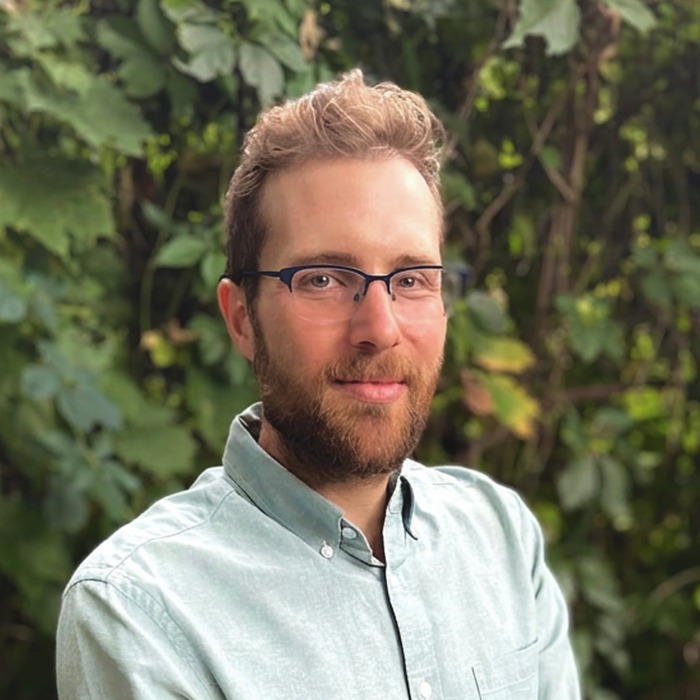
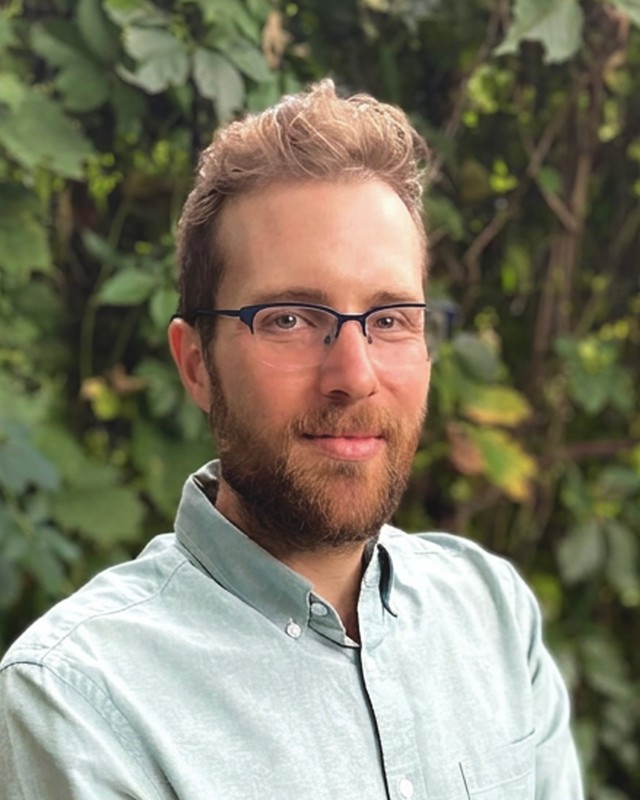
Bigger portrait photo, aligned masthead, drop sidebar links
Replace the Susy float grid with a flex two-column layout so the masthead and
body share identical columns: the site name sits over the photo, the nav links
over the body text, at any width. Photo becomes a 300x375 portrait (4:5 source)
instead of a 175px circle, and the sidebar link list is removed.

diff --git a/_includes/head/custom.html b/_includes/head/custom.html
@@ -175,26 +175,70 @@ a:hover {
 .author__urls a:hover {
   color: #1a4a7a;
 }
-/* Author links: hide entirely on narrow screens (no "Follow" toggle, no
-   dropdown). They reappear at 925px, where the sidebar becomes a real column
-   and the theme lays them out inline. */
+/* Sidebar links removed entirely (name + title only). */
+.author__urls-wrapper,
 .author__urls-wrapper button { display: none !important; }
-.author__urls-wrapper { display: none !important; }
+
+/* Large portrait photo. Source is 4:5 so object-fit has nothing to crop. */
+.author__avatar { width: 100% !important; display: block !important; }
+.author__avatar img {
+  width: 100% !important;
+  max-width: 300px !important;
+  height: auto !important;
+  aspect-ratio: 4 / 5;
+  object-fit: cover;
+  border-radius: 3px !important;
+}
+
+/* Two-column layout. Replaces the theme's Susy float grid with flex so the
+   masthead and the body share identical columns at any width: the name sits
+   over the photo, the nav links over the text. */
 @media screen and (min-width: 925px) {
-  .author__urls-wrapper { display: block !important; }
-  .author__urls {
-    display: block !important;
-    position: relative !important;
-    right: auto !important;
+  #main { display: flex !important; gap: 44px; }
+  .sidebar {
+    width: 300px !important;
+    flex: 0 0 300px !important;
+    max-width: none !important;
+    float: none !important;
     margin: 0 !important;
     padding: 0 !important;
-    border: 0 !important;
-    background: transparent !important;
-    box-shadow: none !important;
-    z-index: auto !important;
+    position: sticky !important;
+    top: 88px;
+    height: auto !important;
+    overflow: visible !important;
+    opacity: 1 !important;
   }
-  .author__urls:before,
-  .author__urls:after { display: none !important; }
+  #main > .page,
+  #main > .archive,
+  #main > article.page {
+    flex: 1 1 auto !important;
+    width: auto !important;
+    min-width: 0 !important;
+    float: none !important;
+    margin: 0 !important;
+    padding-left: 0 !important;
+    padding-right: 0 !important;
+  }
+  /* Keep the link list shrink-wrapped: greedy-nav measures its width to decide
+     what to collapse into the hamburger, so a full-width flex row hides
+     everything. inline-flex shrink-wraps the way the theme's table did. */
+  .greedy-nav .visible-links { display: inline-flex !important; align-items: baseline; }
+  .greedy-nav .visible-links li { display: block !important; }
+  .greedy-nav .visible-links .masthead__menu-item--lg {
+    flex: 0 0 300px !important;
+    width: 300px !important;
+    padding-right: 0 !important;
+    margin-right: 44px !important;
+  }
+  .greedy-nav .visible-links .masthead__menu-item--lg a {
+    margin-left: 0 !important;
+    font-size: 1.45em;
+  }
+  .greedy-nav .visible-links li:not(.masthead__menu-item--lg) a {
+    margin-left: 0 !important;
+    margin-right: 34px !important;
+    font-size: 1.12em;
+  }
 }
 /* Page title */
 .page__title {
